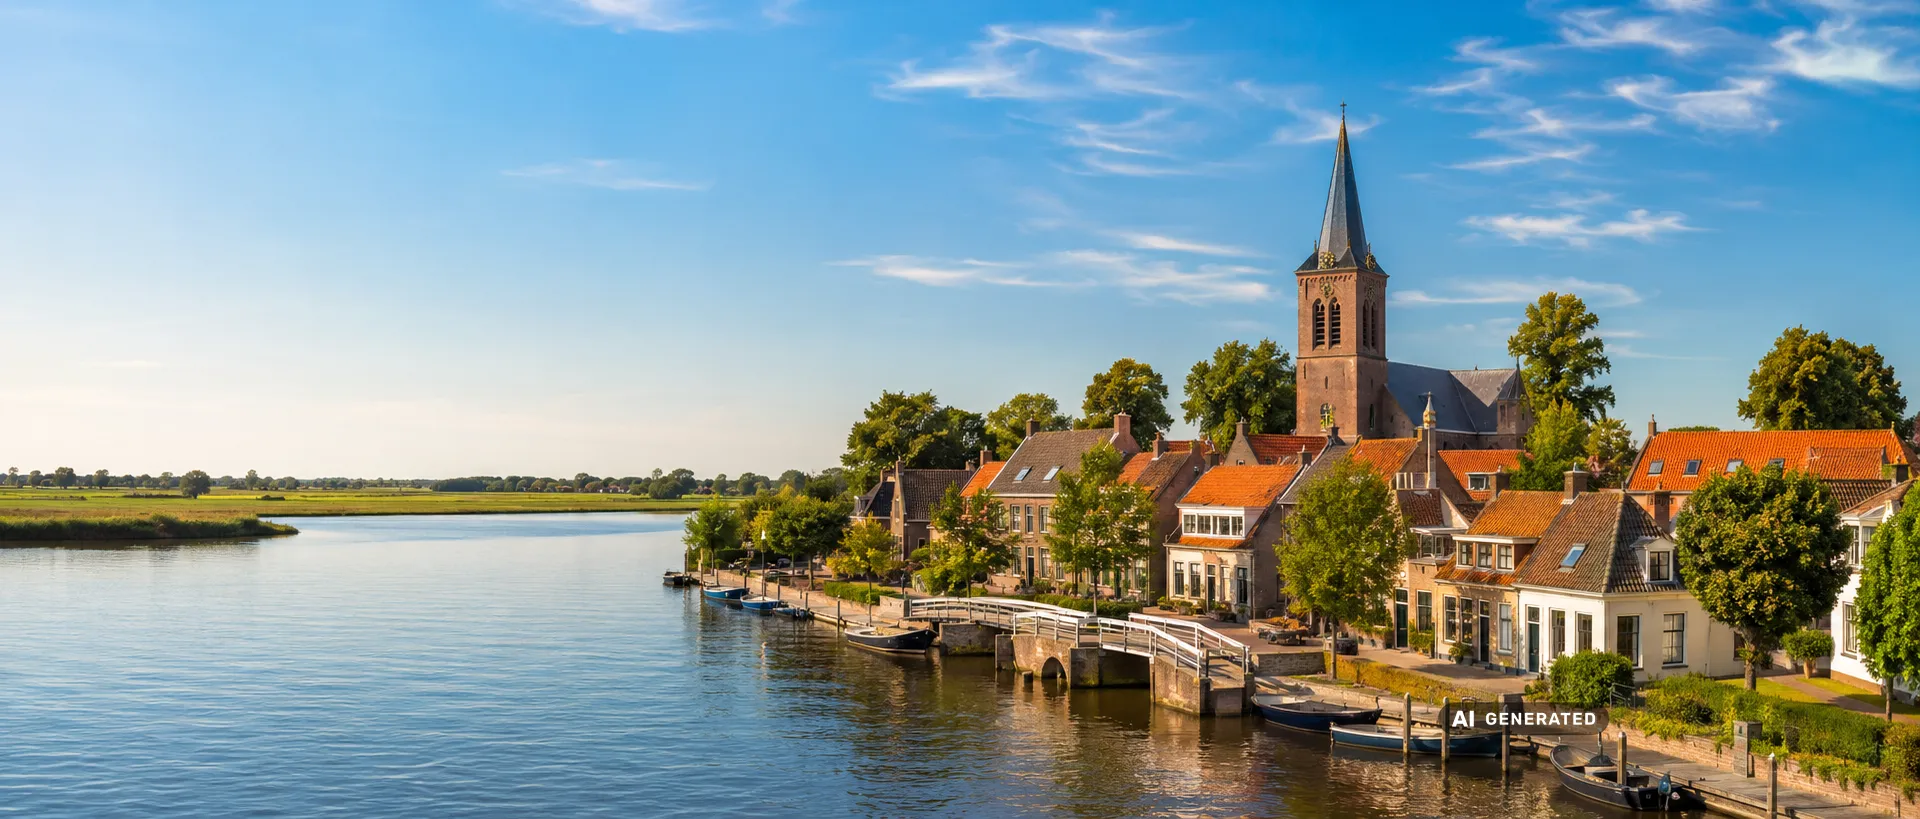
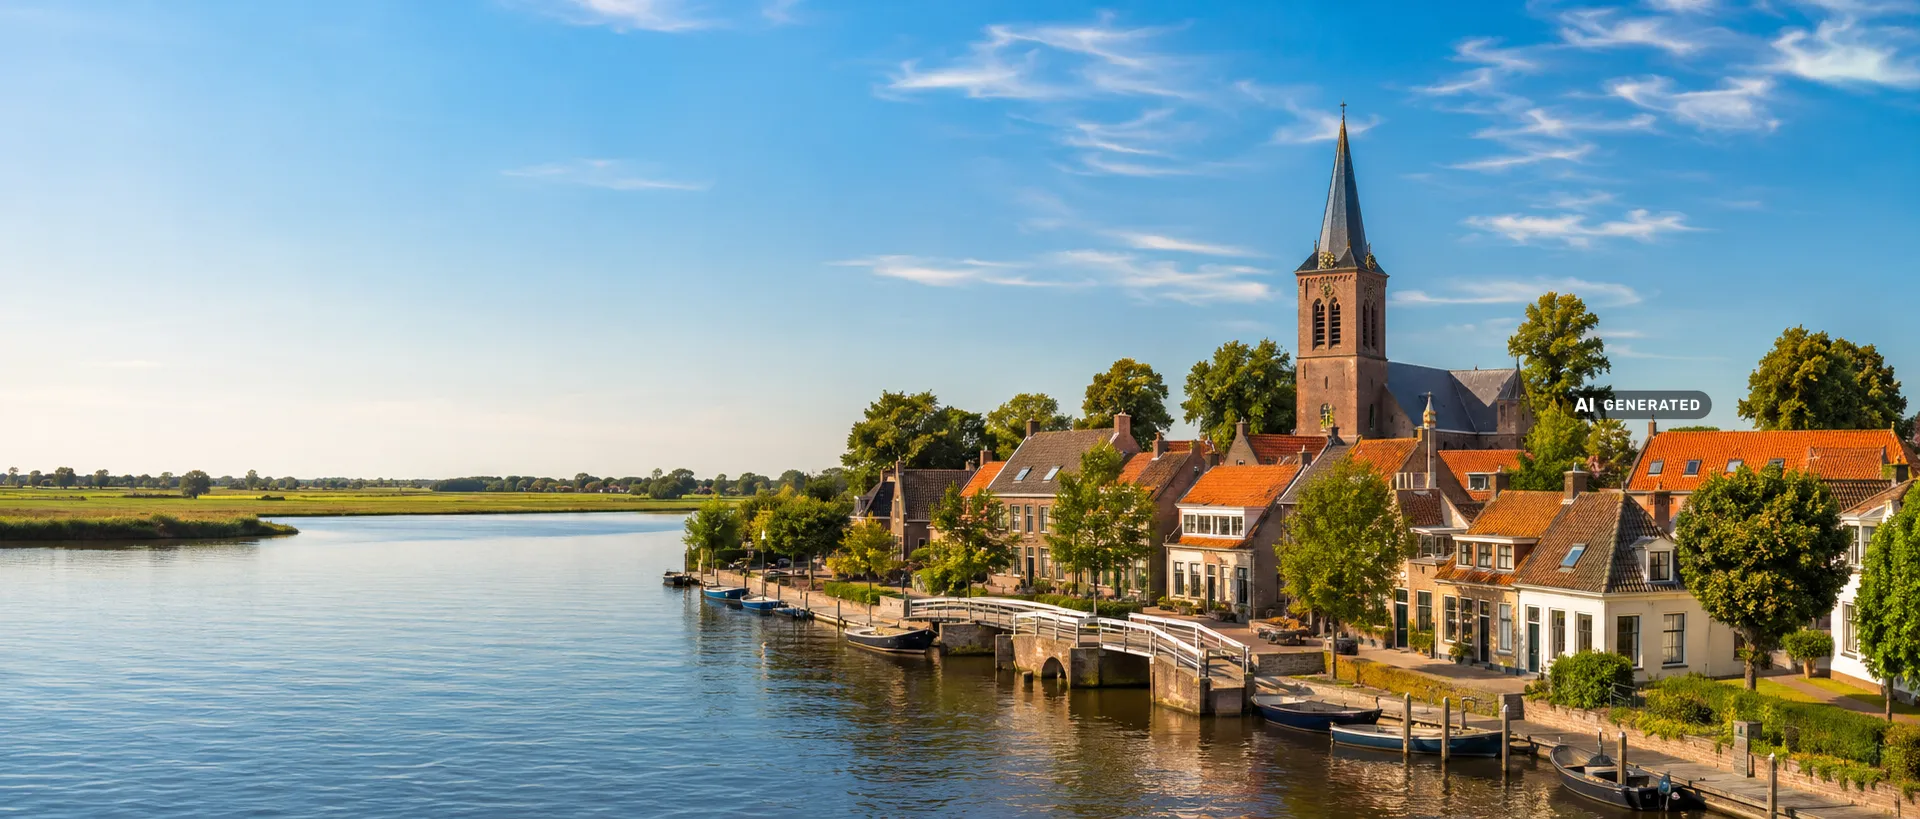
fix: move zuid-drecht AI label to mid-height right so cropping cannot hide it

Changed region(s): [[0.8125, 0.4579, 0.9062, 0.5189], [0.75, 0.8547, 0.8438, 0.9158]]

diff --git a/docs/converting-images.md b/docs/converting-images.md
@@ -63,21 +63,30 @@ bake the visible label into the conversion. The official EU icons live in
 [`ai-labels/`](../ai-labels/) at the repository root.
 
 Scale the label to roughly a tenth of the image width, then composite it
-into the bottom-right corner during conversion — the same command also
-writes a machine-readable AI declaration into the served file's EXIF
-metadata (the last command removes the temporary scaled label again):
+during conversion — the same command also writes a machine-readable AI
+declaration into the served file's EXIF metadata (the last command removes
+the temporary scaled label again). The example coordinates fit a
+1920 × 819 image (label top-left at 80% of the width, 46% of the height) —
+scale them along with your image:
 
 ```
-npx sharp-cli -i ../../ai-labels/label-ai-generated-black-transparent.png -o label-small.png resize 220
-npx sharp-cli -i source/jumbotron.png -o jumbotron.webp -q 80 --metadata.exif.IFD0.ImageDescription "AI-generated image (EU AI Act, Article 50); IPTC digital source type: trainedAlgorithmicMedia" composite label-small.png --gravity southeast
+npx sharp-cli -i ../../ai-labels/label-ai-generated-black-transparent.png -o label-small.png resize 192
+npx sharp-cli -i source/jumbotron.png -o jumbotron.webp -q 80 --metadata.exif.IFD0.ImageDescription "AI-generated image (EU AI Act, Article 50); IPTC digital source type: trainedAlgorithmicMedia" composite label-small.png --left 1540 --top 375
 npx rimraf label-small.png
 ```
 
-Mind the composition rules from the README: on narrow screens the template
-crops the image edges, so when the far corner might be cut off, place the
-label with explicit coordinates instead of `--gravity` (`composite
-label-small.png --left <x> --top <y>`), keeping it roughly 15% away from
-the right edge.
+Place the label at mid-height, never in a corner or against an edge. The
+template crops the image around a fixed focal point (48% from the left,
+39% from the top — see the composition rules in the README): wide screens
+show the full image width but cut off the top and bottom — depending on
+the screen, only roughly 29–54% of the image height always stays in view —
+while narrow screens cut off the sides instead. So keep the label's
+vertical centre around 40–50% of the image height, and pick a horizontally
+calm spot that keeps clear of the text card on the left; the right half of
+the image works well, since wide screens always show the full width. On
+phone-sized screens the sides are cropped away and the text card covers
+most of what remains, so no placement is phone-proof — desktop visibility
+is the priority.
 
 ## Alternatives
 

diff --git a/other/zuid-drecht/source/origin.md b/other/zuid-drecht/source/origin.md
@@ -18,8 +18,10 @@ Zuid-Drecht is a fictive municipality, used for demos.
   machine-readable AI provenance (C2PA content credentials).
 - **Served file** (`jumbotron.webp`) — converted by Conduction from the
   original, with the EU "AI generated" label
-  (`ai-labels/label-ai-generated-black-transparent.png`) composited
-  bottom-right and the machine-readable AI declaration (IPTC digital
-  source type `trainedAlgorithmicMedia`) written into the XMP and EXIF
+  (`ai-labels/label-ai-generated-black-transparent.png`) composited over
+  the village skyline in the image's right half, at mid-height, where the
+  template's cropping keeps it in view on desktop-class screens, and the
+  machine-readable AI declaration (IPTC
+  digital source type `trainedAlgorithmicMedia`) written into the EXIF
   metadata: the conversion strips the original's embedded credentials, so
   the served file carries its own markings.
